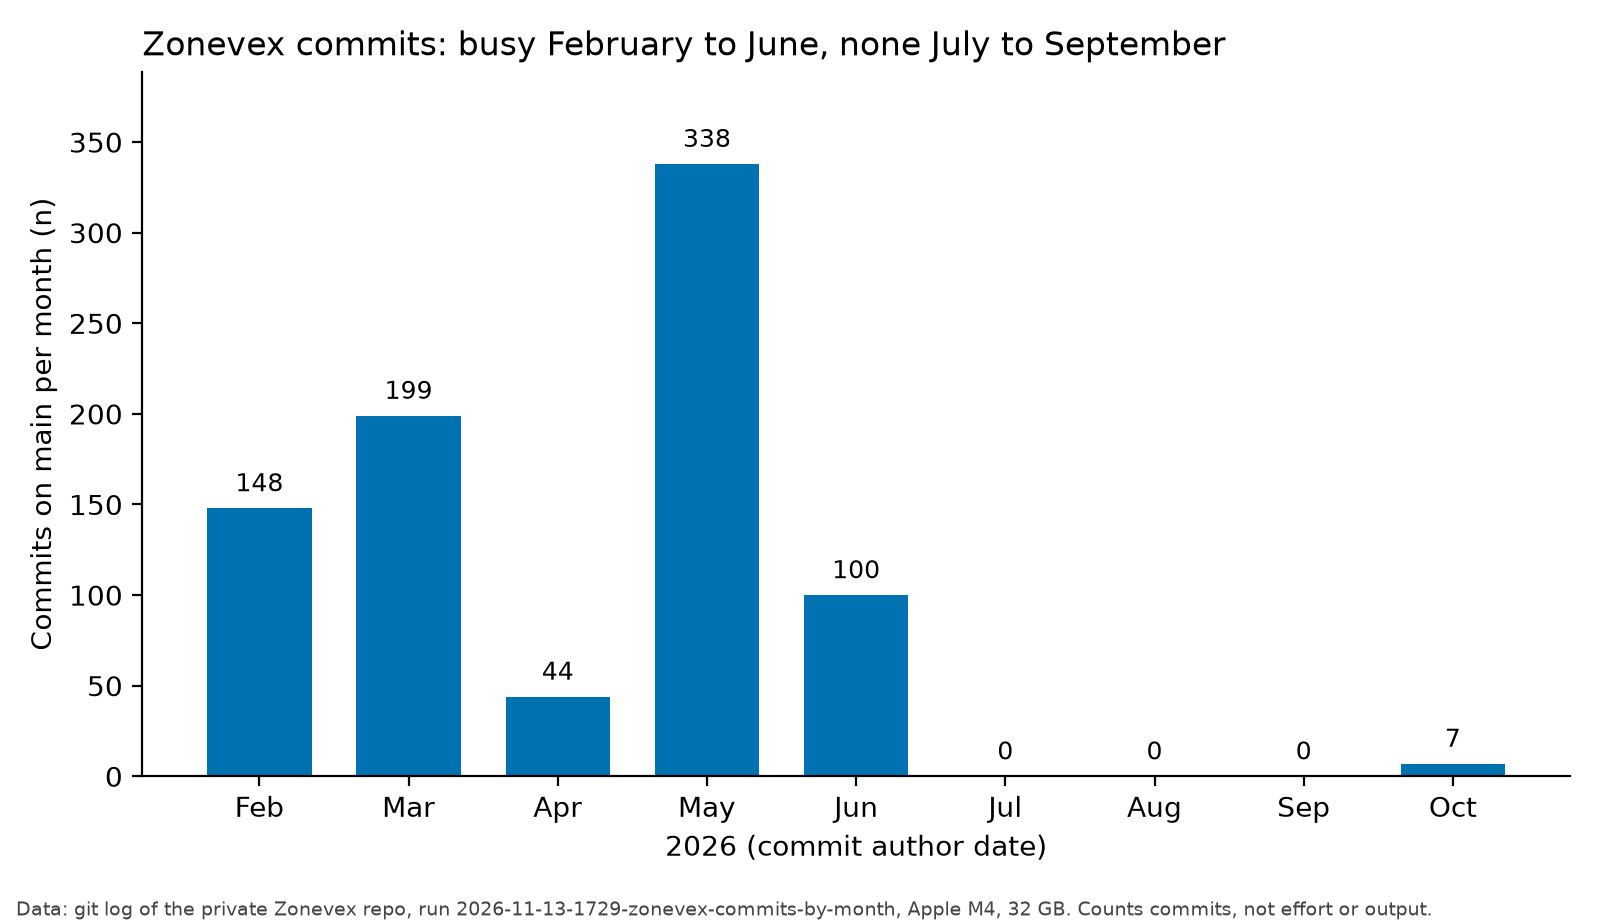
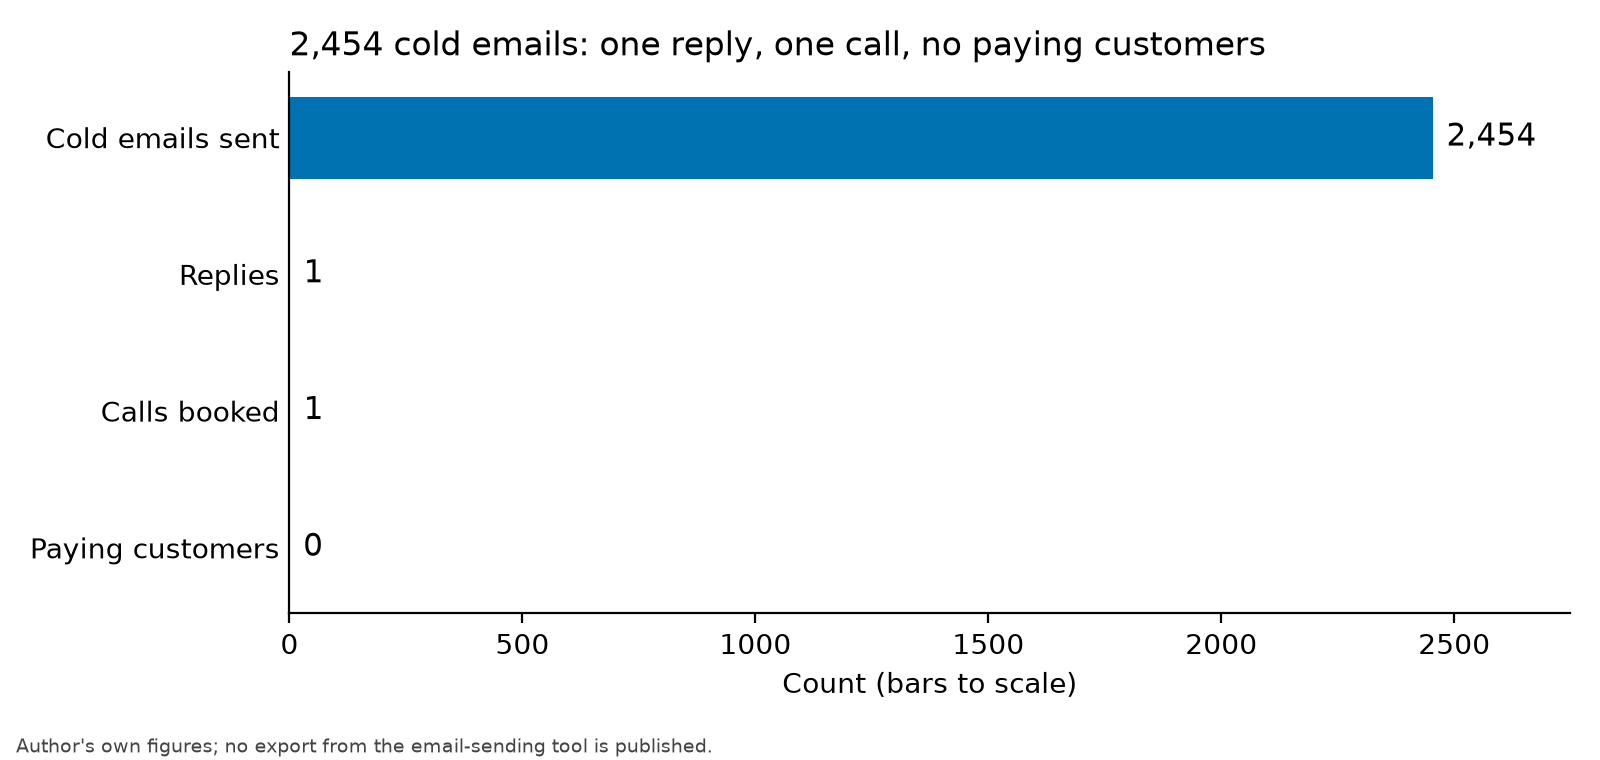
drafts: lead the Zonevex postmortem with the outcome and chart the outreach results

diff --git a/drafts/zonevex-retrospective/figure.py b/drafts/zonevex-retrospective/figure.py
@@ -1,13 +1,12 @@
 #!/usr/bin/env python3
-"""Generate the post's one figure from a pow run capture's output.log.
+"""Generate the post's one figure from outreach.csv.
 
-Usage: python3 figure.py <path/to/output.log> <out.png>
-Input lines look like "  148 2026-02" (commit count, month), from `git log | sort | uniq -c`.
-Months with no commits are drawn as zero. The pause-documentation month (2026-11) is excluded
-on purpose: those commits record the pause, they are not product work.
+Usage: python3 figure.py outreach.csv figure.png
+Horizontal bars on a linear scale, so the drop from the first bar to the rest is drawn to scale.
+The numbers are the author's own figures (claim "outreach"), not a captured run.
 Requires matplotlib==3.11.2 (numpy==2.5.4).
 """
-import re
+import csv
 import sys
 
 import matplotlib
@@ -15,31 +14,23 @@ import matplotlib
 matplotlib.use("Agg")
 import matplotlib.pyplot as plt
 
-LINE = re.compile(r"^\s*(\d+)\s+(\d{4})-(\d{2})\s*$")
-counts = {}
-for line in open(sys.argv[1]):
-    if m := LINE.match(line):
-        counts[(int(m.group(2)), int(m.group(3)))] = int(m.group(1))
+rows = [r for r in csv.DictReader(line for line in open(sys.argv[1]) if not line.startswith("#"))]
+labels = [r["stage"] for r in rows]
+values = [int(r["count"]) for r in rows]
 
-months = [(2026, mo) for mo in range(2, 11)]  # Feb to Oct 2026
-labels = ["Feb", "Mar", "Apr", "May", "Jun", "Jul", "Aug", "Sep", "Oct"]
-values = [counts.get(k, 0) for k in months]
-
-fig, ax = plt.subplots(figsize=(8, 4.6), dpi=200)
-bars = ax.bar(labels, values, color="#0072B2", width=0.7)
-for bar, v in zip(bars, values):
-    ax.text(bar.get_x() + bar.get_width() / 2, v + 6, str(v), ha="center", va="bottom", fontsize=9)
-ax.set_title("Zonevex commits: busy February to June, none July to September", fontsize=12, loc="left")
-ax.set_ylabel("Commits on main per month (n)")
-ax.set_xlabel("2026 (commit author date)")
-ax.set_ylim(0, max(values) * 1.15)
+fig, ax = plt.subplots(figsize=(8, 3.8), dpi=200)
+y = range(len(rows))
+ax.barh(list(y), values, color="#0072B2", height=0.6)
+ax.set_yticks(list(y), labels)
+ax.invert_yaxis()
+ax.set_xlim(0, max(values) * 1.12)
+for i, v in enumerate(values):
+    ax.text(v + max(values) * 0.012, i, f"{v:,}", va="center", fontsize=11)
+ax.set_title("2,454 cold emails: one reply, one call, no paying customers", fontsize=12, loc="left")
+ax.set_xlabel("Count (bars to scale)")
 ax.spines[["top", "right"]].set_visible(False)
-fig.text(
-    0.01, 0.005,
-    "Data: git log of the private Zonevex repo, run 2026-11-13-1729-zonevex-commits-by-month, "
-    "Apple M4, 32 GB. Counts commits, not effort or output.",
-    fontsize=7, color="#444444",
-)
-fig.tight_layout(rect=(0, 0.03, 1, 1))
+ax.tick_params(axis="y", length=0)
+fig.text(0.01, 0.01, "Author's own figures; no export from the email-sending tool is published.", fontsize=7, color="#444444")
+fig.tight_layout(rect=(0, 0.04, 1, 1))
 fig.savefig(sys.argv[2])
-print("wrote", sys.argv[2], "values:", dict(zip(labels, values)))
+print("wrote", sys.argv[2], dict(zip(labels, values)))

diff --git a/drafts/zonevex-retrospective/draft.md b/drafts/zonevex-retrospective/draft.md
@@ -3,7 +3,7 @@ title: "Why I paused the site-control checker I built for PJM's interconnection 
 date: 2026-11-13
 type: dead-end
 tags: [zonevex, postmortem, interconnection]
-description: "Why I paused Zonevex, software that checked site control against interconnection-queue rules: the commit history, the outreach result, PJM's own AI review tool, and what I would build instead."
+description: "Why I paused Zonevex, software that checked site control against interconnection-queue rules: the outreach result, PJM's own AI review tool, and what I would build instead."
 run_ids: [zonevex-repo-stats, zonevex-commits-by-month, zonevex-october-commits]
 results_commit: "see the commit that adds these results folders"
 ---
@@ -16,7 +16,7 @@ Lint: "Tapestry" trips the banned-phrase rule; it is a company name here.
 Counts come from a private repository; the captured runs are in results/.
 -->
 
-**TL;DR.** I built Zonevex, software that checks whether a developer's site control would hold up against an RTO's interconnection-queue rules: 836 commits on its main branch [run:repo_commits], almost all of them between February and June 2026 [run:commits_by_month]. After a silent summer I paused it in November. Two reasons: PJM, the RTO my free toolkits were built for, was already using an AI tool from Tapestry to review application documents [cite:pjm_release_hyperq], and I never found a channel to the people who buy this kind of software. The first is documented. The second is my judgment, not a measurement. The result was no paying customers, one booked call and one reply to 2,454 cold emails [est:outreach].
+**TL;DR.** I built Zonevex, software that checks whether a developer's site control would hold up against an RTO's interconnection-queue rules. It got no paying customers: 2,454 cold emails produced one reply and one booked call [est:outreach]. I paused it in November. Two reasons: PJM, the RTO my free toolkits were built for, was already using an AI tool from Tapestry to review application documents [cite:pjm_release_hyperq], and I never found a channel to the people who buy this kind of software. The first is documented. The second is my judgment, not a measurement.
 
 **Why this matters.** It cost me about 150 hours and $185 to find out [est:cost]. If you are thinking about compliance software for grid and power, the engineering is the part you can control, and it is the part I got furthest on.
 
@@ -30,10 +30,7 @@ I framed Zonevex from the start as a time-capped bet on distribution, not a prod
 
 Zonevex took lease and easement PDFs. Claude Vision extracted the fields, a parser turned legal descriptions into geometry, PostGIS computed parcel coverage, and per-RTO rules held in a database table produced the report. The code stayed in a private repository: first commit 2026-02-21, last 2026-10-22 [run:repo_span]. Around it I built a marketing site, free PJM toolkits and 25 blog posts [run:repo_blog_posts].
 
-![Bar chart of Zonevex commits per month in 2026: 148 in February, 199 in March, 44 in April, 338 in May, 100 in June, none in July, August or September, and 7 in October.](figure.png) [run:commits_by_month]
-*Commits per month on the Zonevex main branch. Counts commits, not effort.*
-
-The activity stopped after June. The repository has no commits in July, August or September, and a handful in October [run:commits_by_month]. The chart excludes the pause documents written in November. Three things overlapped over the summer: I decided to stop, other priorities took the time, and I was waiting on outreach.
+Work on the code stopped after June [run:commits_by_month]. Three things overlapped over the summer: I decided to stop, other priorities took the time, and I was waiting on outreach.
 
 The October commits were all between October 20 and 22 and were cleanup, not new product: removing prices from the public pages and the app, correcting claims in my HyperQ post, adding a PJM large-load post, fixing the web deploy workflow, and a first draft of a specification for an open interconnection rules register [run:october_commits].
 
@@ -42,6 +39,9 @@ In October I tried something smaller than selling: short, sourced notes that tol
 ## What happened
 
 The outcome was thin. Only some people downloaded the free calculator and toolkits, mostly from private equity firms. One call was booked through Cal.com with a founder in the site-control field. I sent 2,454 cold emails, one person replied, and they said they did not need it [est:outreach].
+
+![Horizontal bars to scale: 2,454 cold emails sent, 1 reply, 1 call booked, 0 paying customers.](figure.png) [est:outreach]
+*Outreach results, drawn to scale. My own figures.*
 
 My read: one reply from that many emails says something about my targeting and message. It does not show that the market has no need.
 
@@ -77,7 +77,7 @@ I would start with point-in-time capture: engines that record the state of inter
 [2] PJM Interconnection, news release "Over 800 New Generation Projects Seek To Connect Under PJM's Reformed Process," 2026-04-29. Accessed 2026-11-13. Archived 2026-07-03: web.archive.org/web/20260703040154/https://www.pjm.com/-/media/DotCom/about-pjm/newsroom/2026-releases/20260429-over-800-new-generation-projects-seek-to-connect-under-pjms-reformed-process.pdf
 
 ---
-**Reproduce:** not applicable (a postmortem, not a benchmark). The counts come from a private repository. · **Raw data:** `results/2026-11-13-1729-zonevex-repo-stats/`, `results/2026-11-13-1729-zonevex-commits-by-month/` and `results/2026-11-13-1729-zonevex-october-commits/` in this site's repository
+**Reproduce:** not applicable (a postmortem, not a benchmark). The counts come from a private repository. · **Raw data:** `results/2026-11-13-1729-zonevex-repo-stats/`, `results/2026-11-13-1729-zonevex-commits-by-month/` and `results/2026-11-13-1729-zonevex-october-commits/` in this site's repository; the outreach figures are mine and are in `drafts/zonevex-retrospective/outreach.csv`
 **Published:** 2026-11-13 · **Last updated:** 2026-11-13 · [Changelog](#changelog)
 **AI disclosure:** Drafted with AI from my notes, my answers to its questions, my repository records and two primary sources it read. The decisions and judgments are mine. Figures marked as estimates are my recollection.
 **Corrections:** If something here is wrong, email ryan.j.hamby@gmail.com. I fix errors publicly in the changelog.
@@ -85,3 +85,4 @@ I would start with point-in-time capture: engines that record the state of inter
 ## Changelog
 
 - **2026-11-13:** Published. Counts from runs captured the same day.
+- **2026-11-13:** Replaced the chart of commits per month with the outreach results, and removed commit counts from the summary. Commit counts say little about effort or progress.
